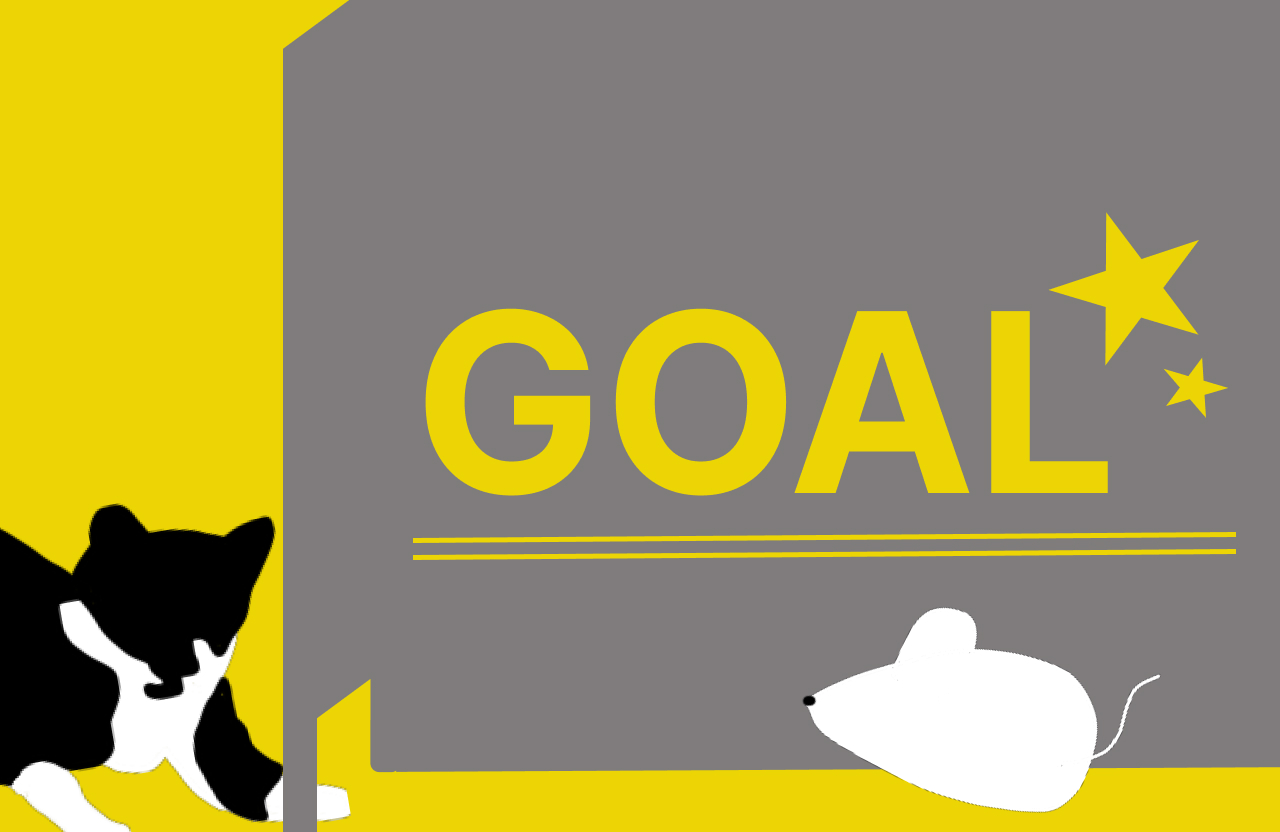
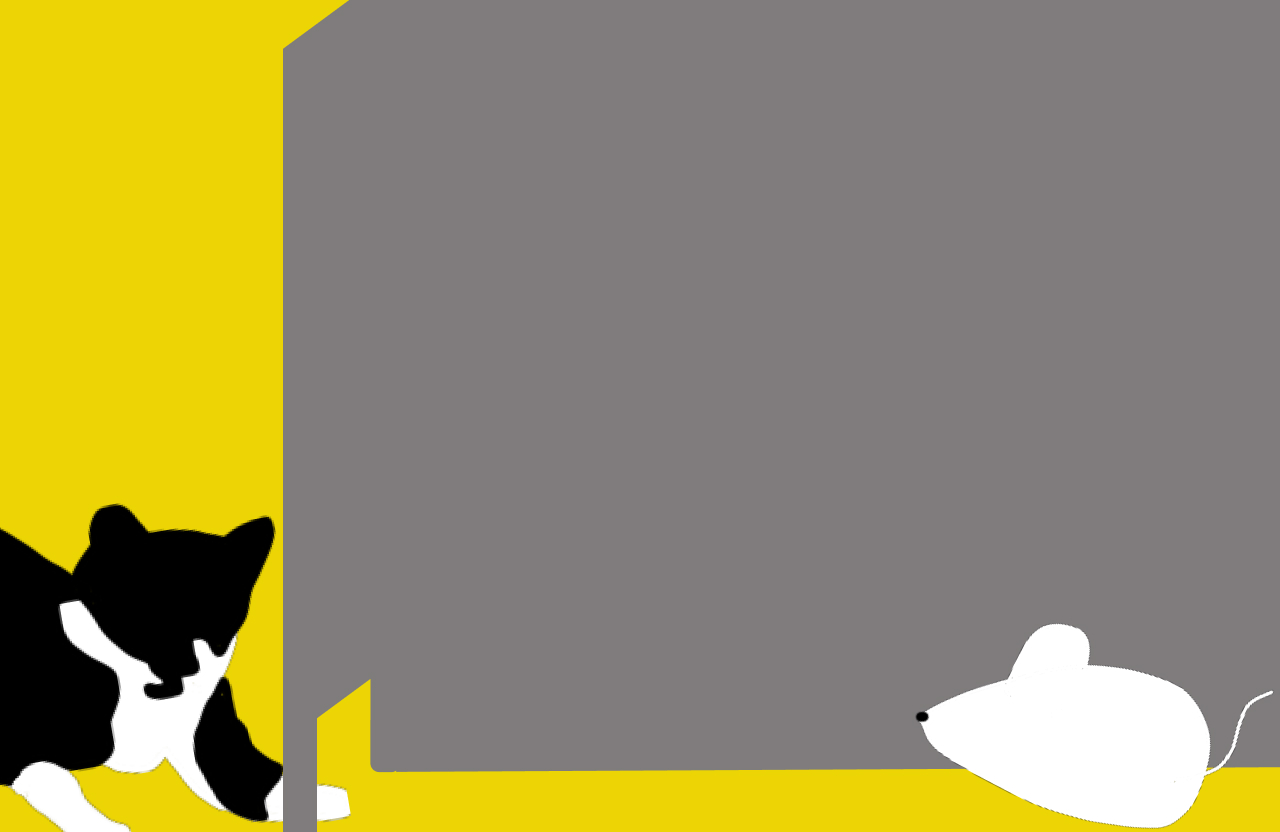
Add files via upload

diff --git a/index.html b/index.html
@@ -4,43 +4,47 @@
 <head>
     <meta charset="UTF-8">
     <meta name="viewport" content="width=device-width, initial-scale=1.0">
-    <title>RunAwayFromCat</title>
     <link rel="stylesheet" href="./style.css">
+    <title>RunAwayFromCat</title>
 </head>
 
 <body>
-    <div class="top_box" id="top_box">
-        <div class="title_box">
-            <img src="./imgage/run.png" alt="cat" id="cat">
-            <div class="title_text" id="title_text">
-                <h1>Run Away</h1>
-                <h1>From Cat</h1>
+    <main>
+        <div class="top_box" id="top_box">
+            <div class="title_box">
+                <div class="titleArea">
+                    <img src="./imgage/run.png" alt="cat" id="cat">
+                    <div class="title_text" id="title_text">
+                        <h1>RunAway</h1>
+                        <h1>FromCat</h1>
+                    </div>
+                </div>
             </div>
-            <div class="start" id="start">
-                <button id="startBtn" onclick="startButton()">START</button>
+        </div>
+        
+        <div class="play_area" id="play_area">
+            <div class="timer_area" id="timer_area">
+                <p id="timer"></p>
+                <p id="timer_end"></p>
+            </div>
+            <div class="animation_area" id="animation_area">
+                <img src="./imgage/run.png" alt="runcat" id="runcat">
+                <img src="./imgage/runcat2.PNG" alt="runcat2" id="runcat2">
+                <img src="./imgage/catchi.png" alt="catch" id="runcat3">
+                <img src="./imgage/mouse_icon.PNG" alt="mouse" id="mouse">
+                <img src="./imgage/mouse2.PNG" alt="mouse2" id="mouse2">
+                <img src="./imgage/mouse3.png" alt="catchmouse" id="mouse3">
             </div>
         </div>
-    </div>
-    <div class="play_area" id="play_area">
-        <div class="timer_area" id="timer_area">
-            <p id="timer"></p>
-            <p id="timer_end"></p>
-        </div>
-        <div class="animation_area" id="animation_area">
-            <img src="./imgage/caution2.png" alt="caution" id="caution">
-            <img src="./imgage/run.png" alt="runcat" id="runcat">
-            <img src="./imgage/runcat2.PNG" alt="runcat2" id="runcat2">
-            <img src="./imgage/catchi.png" alt="catch" id="runcat3">
-            <img src="./imgage/mouse_icon.PNG" alt="mouse" id="mouse">
-            <img src="./imgage/mouse2.PNG" alt="mouse2" id="mouse2">
-            <img src="imgage/mouse3.PNG" alt="catchmouse" id="mouse3">
-        </div>
-    </div>
 
-    <div class="button_area" id="button_area">
-        <button id="topBtn" onclick="topButton()">JUMP</button>
-    </div>
+        <div class="start" id="start">
+            <button id="startBtn" onclick="startButton()">START</button>
+        </div>
 
+        <div class="button_area" id="button_area">
+            <button id="topBtn" onclick="topButton()">JUMP</button>
+        </div>
+    </main>
 
     <script src="./main.js"></script>
 </body>

diff --git a/style.css b/style.css
@@ -1,81 +1,89 @@
 @charset "UTF-8";
 
-* {
-    margin: 0;
+*{
     padding: 0;
+    margin: 0;
     box-sizing: border-box;
 }
 
-body {
-    background: #ffeeb1;
+body{
     overflow-x: hidden;
 }
 
-.top_box {
+main {
+    width: 100%;
+    height: 100vh;
+    background: rgb(255, 247, 243);
+    display: flex;
+    flex-direction: column;
+    justify-content: center;
+    align-items: center;
+    position: relative;
+}
+
+.top_box{
+    width: 90%;
+}
+
+.title_box {
+    width: 100%;
+    height: 75vh;
     display: flex;
     flex-direction: column;
     align-items: center;
 }
 
-.title_box {
+.start {
     display: flex;
+    justify-content: center;
+    margin-top: 1%;
+}
+
+.titleArea {
+    width: 100%;
+    display: flex;
+    height: 60vh;
+    margin: 2%;
     justify-content: space-between;
-    width: 80%;
 }
 
-.title_text {
+.titleArea img {
     width: 60%;
-    margin: 32px 0 32px 32px;
 }
 
-.title_box img {
-    width: 40%;
-}
-
-.title_text h1 {
-    font-size: 72px;
-    line-height: 1em;
-}
-
-.title_text h1:nth-child(2) {
-    text-align: center;
-    margin-left: 120px;
+.titleArea h1 {
+    font-size: 8vw;
 }
 
 button {
-    width: 300px;
-    height: 150px;
+    margin: 2%;
+    width: 200px;
+    height: 100px;
+    border-radius: 20px;
     background: #fca641;
-    border: 5px solid white;
-    border-radius: 50px;
-    font-size: 56px;
-    color: white;
-    letter-spacing: 0.5rem;
+    font-size: 7vh;
     font-weight: bold;
+    color: white;
+    border: none;
 }
 
-button:hover {
+button:hover,
+#topBtn:hover {
     background: #7ef49c;
     cursor: pointer;
 }
 
-.start {
-    position: absolute;
-    top: 30%;
-    right: 25%;
-}
-
-#topBtn {
-    background: rgb(255, 0, 81);
-    text-align: center;
+#topBtn{
+    background: rgb(255, 32, 210);
+    margin-top: 10%;
 }
 
 .play_area {
-    margin: 42px auto;
-    width: 50%;
-    height: 50vh;
+    margin-top: 2%;
+    width: 80%;
+    height: 75vh;
     background-image: url(./imgage/playarea.jpg);
-    background-size: contain;
+    background-size: cover;
     animation: back 5s infinite linear;
     position: relative;
 }
@@ -98,7 +106,7 @@ p {
 
 .open {
     width: 100%;
-    height: 50vh;
+    height: 75vh;
     background: #7ef49c;
     display: flex;
     justify-content: center;
@@ -115,18 +123,12 @@ p {
     position: absolute;
 }
 
-#caution {
-    width: 200px;
-    margin: 32px 0 0 32px;
-    display: none;
-}
-
 #runcat,
 #runcat2,
 #runcat3 {
     width: 200px;
     position: absolute;
-    top: 30%;
+    top: 60%;
     left: 9%;
 }
 
@@ -171,7 +173,7 @@ p {
 #mouse3 {
     width: 100px;
     position: absolute;
-    top: 50%;
+    top: 90%;
     left: 70%;
 }
 
@@ -205,16 +207,4 @@ p {
     100% {
         opacity: 0;
     }
-}
-
-
-.button_area {
-    width: 100%;
-    display: flex;
-    justify-content: center;
-    height: 20vh;
-}
-
-.button_area button {
-    margin: 16px;
 }

diff --git a/main.js b/main.js
@@ -35,6 +35,7 @@ const startButton = () => {
     animationArea.style.display = "none"
     topBox.style.display = "none";
     buttonArea.style.display ="flex";
+    startBox.style.display = "none";
     reset();
     timerStart();
     setTimeout(startGame, 5000);
@@ -57,6 +58,7 @@ const timerStart = () => {
                 attackMove();
             }, 1000);
         } if (timerCountDown == 0) {
+            successFlag = true;
             endGmame();
         }
     }
@@ -65,19 +67,17 @@ const timerStart = () => {
 const endGmame = () => {
     timerArea.classList.add('open');
     timerArea.style.backgroundImage = "url(./imgage/goal.jpg)";
-    timerEnd.textContent = "";
+    timerEnd.textContent = "GOAL!!";
+    timerEnd.style.fontSize = "10vw";
     timerArea.style.backgroundSize = "cover";
-    timerArea.style.backgroundPosition = "bottom";
+    timerArea.style.backgroundPosition = "right bottom";
     timer.style.display = "none";
     timerEnd.style.display = "block";
     animationArea.style.display = "none"
-    topBox.style.display = "flex";
+    topBox.style.display = "none";
     titleText.style.display = "none";
     titleImage.style.display = "none";
-    startBox.style.top = "64%";
-    startBox.style.right = "41%";
     buttonArea.style.display = "none";
-    successFlag = true;
     runcatPosition();
     notButton();
     setTimeout(activeButton, 5000);
@@ -95,15 +95,15 @@ const topButton = () => {
 };
 
 const mousePosition = () => {
-    mouse.style.top = "50%";
-    mouse2.style.top = "50%";
+    mouse.style.top = "75%";
+    mouse2.style.top = "75%";
 };
 
 const catAttack = () => {
     let num = Math.floor(Math.random() * 10);
     if (num == attackNum[num]) {
-        runcat.style.left = "50%";
-        runcat2.style.left = "50%";
+        runcat.style.left = "75%";
+        runcat2.style.left = "75%";
     }
 };
 
@@ -133,12 +133,14 @@ const attackMove = () => {
 const gameOver = () => {
     endGmame();
     timerEnd.textContent = "GAME OVER";
-    topBox.style.display = "flex";
+    timerEnd.style.fontSize = "10vw";
+    topBox.style.display = "none";
     titleText.style.display = "none";
     titleImage.style.display = "none";
     timerArea.style.backgroundImage = "url(./imgage/gameover.jpg)";
     timerArea.style.backgroundSize = "cover";
-    timerArea.style.backgroundPosition = "bottom";
+    timerArea.style.backgroundPosition = "right bottom";
+    successFlag = true;
 };
 
 const reset = () => {
@@ -160,6 +162,7 @@ const reset = () => {
 const notButton = () => {
     startBtn.disabled = true;
     startBtn.style.backgroundColor = "black";
+    startBox.style.display = "flex";
 };
 
 const activeButton = () => {
